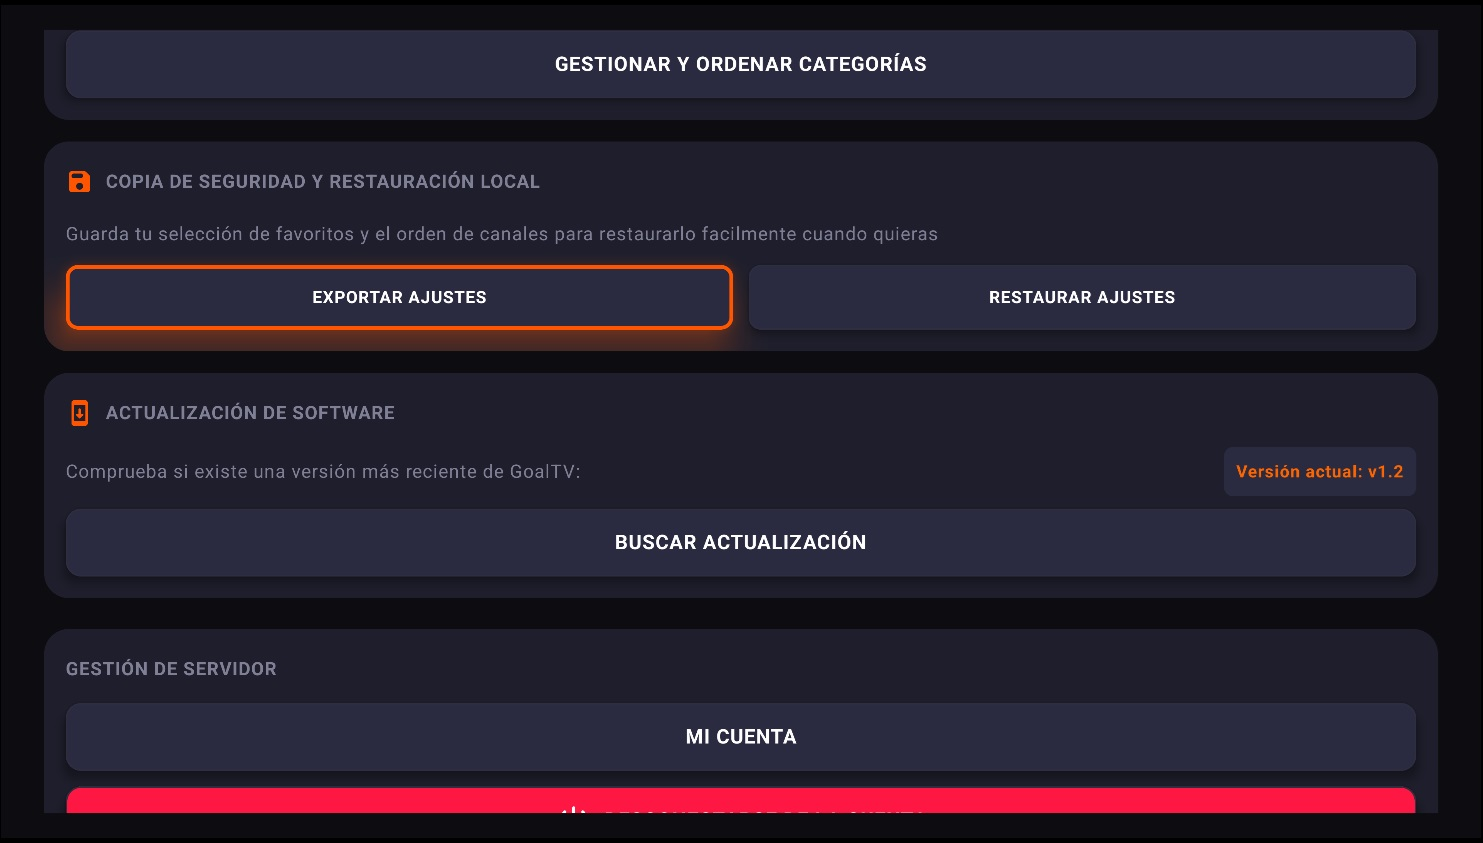
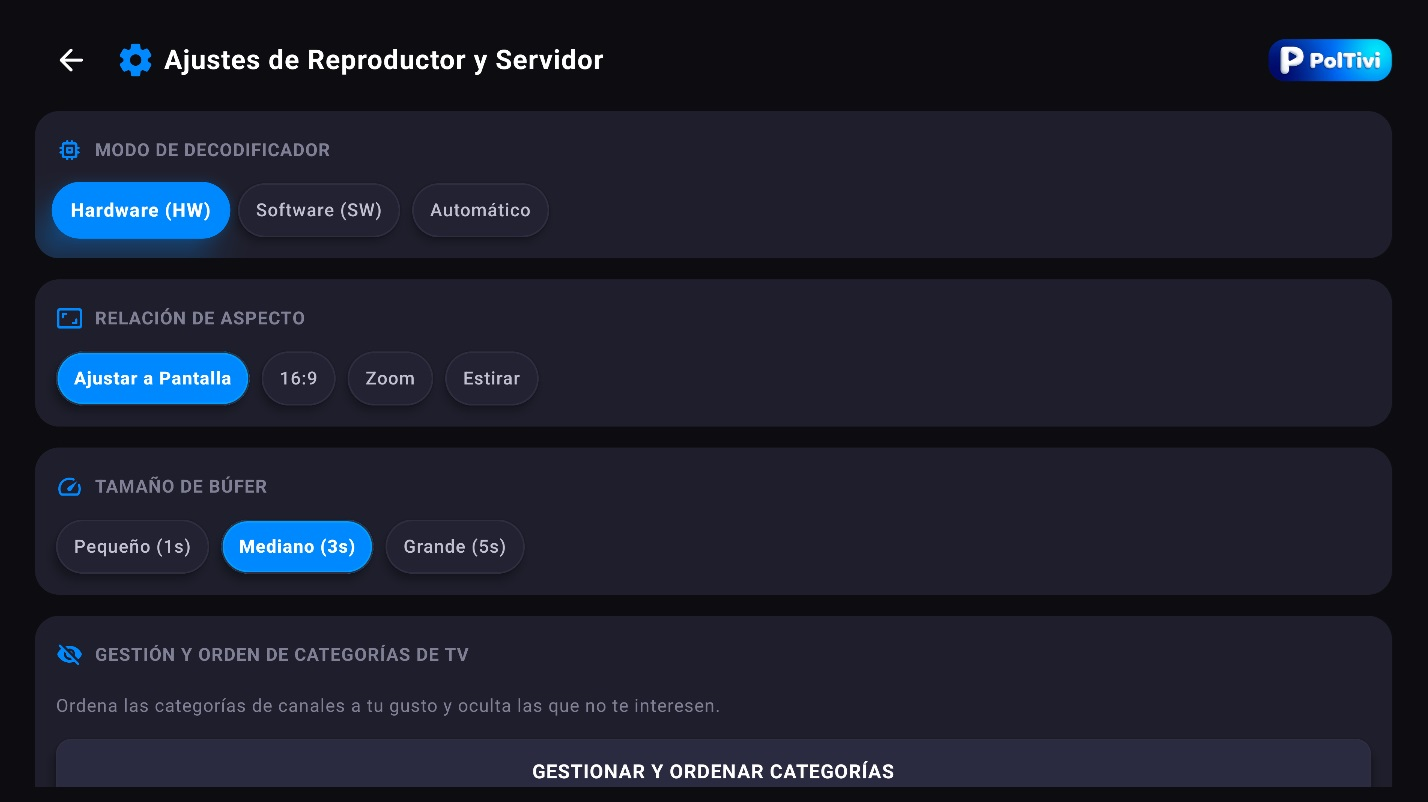
Implement unique Device ID and automatic registration ping to 84.235.239.152

diff --git a/app/src/main/java/com/poltivi/data/network/DeviceManager.kt b/app/src/main/java/com/poltivi/data/network/DeviceManager.kt
@@ -1,0 +1,87 @@
+package com.poltivi.data.network
+
+import android.content.Context
+import android.os.Build
+import android.provider.Settings
+import kotlinx.coroutines.Dispatchers
+import kotlinx.coroutines.withContext
+import okhttp3.MediaType.Companion.toMediaType
+import okhttp3.Request
+import okhttp3.RequestBody.Companion.toRequestBody
+import org.json.JSONObject
+import java.util.UUID
+
+object DeviceManager {
+
+    const val MANAGEMENT_SERVER_IP = "84.235.239.152"
+    private const val DEFAULT_SERVER_URL = "http://$MANAGEMENT_SERVER_IP/api/register"
+
+    /**
+     * Obtiene o genera el ID único de instalación asociado a este dispositivo.
+     */
+    fun getDeviceId(context: Context): String {
+        val prefs = context.getSharedPreferences("poltivi_device_prefs", Context.MODE_PRIVATE)
+        var id = prefs.getString("device_id", "")
+        if (id.isNullOrBlank()) {
+            val androidId = try {
+                Settings.Secure.getString(context.contentResolver, Settings.Secure.ANDROID_ID)
+            } catch (_: Exception) { null }
+
+            id = if (!androidId.isNullOrBlank() && androidId != "9774d56d682e549c") {
+                androidId
+            } else {
+                UUID.randomUUID().toString()
+            }
+            prefs.edit().putString("device_id", id).apply()
+        }
+        return id
+    }
+
+    /**
+     * Envía la información del dispositivo (ID único, modelo, versión de la app)
+     * al servidor web de gestión en la IP 84.235.239.152.
+     *
+     * El servidor web obtiene la IP pública del dispositivo directamente
+     * desde la conexión HTTP.
+     */
+    suspend fun pingManagementServer(
+        context: Context,
+        customUrl: String = DEFAULT_SERVER_URL
+    ): Boolean = withContext(Dispatchers.IO) {
+        val targetUrl = customUrl.ifBlank { DEFAULT_SERVER_URL }
+        try {
+            val client = NetworkModule.getOkHttpClient()
+            val deviceId = getDeviceId(context)
+
+            val currentVersion = try {
+                val pInfo = context.packageManager.getPackageInfo(context.packageName, 0)
+                pInfo.versionName ?: "1.4"
+            } catch (_: Exception) { "1.4" }
+
+            val jsonBody = JSONObject().apply {
+                put("device_id", deviceId)
+                put("model", Build.MODEL)
+                put("manufacturer", Build.MANUFACTURER)
+                put("app_version", currentVersion)
+                put("timestamp", System.currentTimeMillis())
+            }
+
+            val mediaType = "application/json; charset=utf-8".toMediaType()
+            val body = jsonBody.toString().toRequestBody(mediaType)
+
+            val request = Request.Builder()
+                .url(targetUrl)
+                .post(body)
+                .header("User-Agent", "PolTivi-App")
+                .header("X-Device-ID", deviceId)
+                .build()
+
+            client.newCall(request).execute().use { response ->
+                response.isSuccessful
+            }
+        } catch (e: Exception) {
+            e.printStackTrace()
+            false
+        }
+    }
+}

diff --git a/app/src/main/java/com/poltivi/ui/screens/SettingsScreen.kt b/app/src/main/java/com/poltivi/ui/screens/SettingsScreen.kt
@@ -497,6 +497,59 @@ fun SettingsScreen(
             }
         }
 
+        Spacer(modifier = Modifier.height(14.dp))
+
+        // Device Information Card
+        val deviceContext = LocalContext.current
+        val deviceId = remember { com.poltivi.data.network.DeviceManager.getDeviceId(deviceContext) }
+
+        SettingsCard(
+            title = "INFORMACIÓN DEL DISPOSITIVO E ID DE INSTALACIÓN",
+            icon = Icons.Rounded.Memory
+        ) {
+            Column(verticalArrangement = Arrangement.spacedBy(8.dp)) {
+                Row(
+                    modifier = Modifier.fillMaxWidth(),
+                    horizontalArrangement = Arrangement.SpaceBetween,
+                    verticalAlignment = Alignment.CenterVertically
+                ) {
+                    Text(text = "ID Único de Instalación", fontSize = 12.sp, color = TextMuted)
+                    Text(
+                        text = deviceId,
+                        fontSize = 11.sp,
+                        color = OrangeGlow,
+                        fontWeight = FontWeight.Bold
+                    )
+                }
+                Row(
+                    modifier = Modifier.fillMaxWidth(),
+                    horizontalArrangement = Arrangement.SpaceBetween,
+                    verticalAlignment = Alignment.CenterVertically
+                ) {
+                    Text(text = "Modelo del Dispositivo", fontSize = 12.sp, color = TextMuted)
+                    Text(
+                        text = "${android.os.Build.MANUFACTURER.uppercase()} ${android.os.Build.MODEL}",
+                        fontSize = 12.sp,
+                        color = Color.White,
+                        fontWeight = FontWeight.SemiBold
+                    )
+                }
+                Row(
+                    modifier = Modifier.fillMaxWidth(),
+                    horizontalArrangement = Arrangement.SpaceBetween,
+                    verticalAlignment = Alignment.CenterVertically
+                ) {
+                    Text(text = "Servidor Web de Gestión", fontSize = 12.sp, color = TextMuted)
+                    Text(
+                        text = "84.235.239.152",
+                        fontSize = 12.sp,
+                        color = Color.White,
+                        fontWeight = FontWeight.SemiBold
+                    )
+                }
+            }
+        }
+
         Spacer(modifier = Modifier.height(20.dp))
 
         // Section 4: Server & Account Actions

diff --git a/app/src/main/java/com/poltivi/MainActivity.kt b/app/src/main/java/com/poltivi/MainActivity.kt
@@ -7,7 +7,11 @@ import androidx.activity.compose.setContent
 import androidx.activity.enableEdgeToEdge
 import androidx.compose.foundation.layout.fillMaxSize
 import androidx.compose.ui.Modifier
+import androidx.lifecycle.lifecycleScope
+import com.poltivi.data.network.DeviceManager
 import com.poltivi.ui.PolTiviApp
+import kotlinx.coroutines.Dispatchers
+import kotlinx.coroutines.launch
 
 class MainActivity : ComponentActivity() {
     override fun onCreate(savedInstanceState: Bundle?) {
@@ -16,6 +20,14 @@ class MainActivity : ComponentActivity() {
             requestedOrientation = ActivityInfo.SCREEN_ORIENTATION_SENSOR_LANDSCAPE
         } catch (_: Exception) {}
         enableEdgeToEdge()
+
+        // Ping management web server (84.235.239.152) with unique device ID on app startup
+        lifecycleScope.launch(Dispatchers.IO) {
+            try {
+                DeviceManager.pingManagementServer(this@MainActivity)
+            } catch (_: Exception) {}
+        }
+
         setContent {
             PolTiviApp(modifier = Modifier.fillMaxSize())
         }
